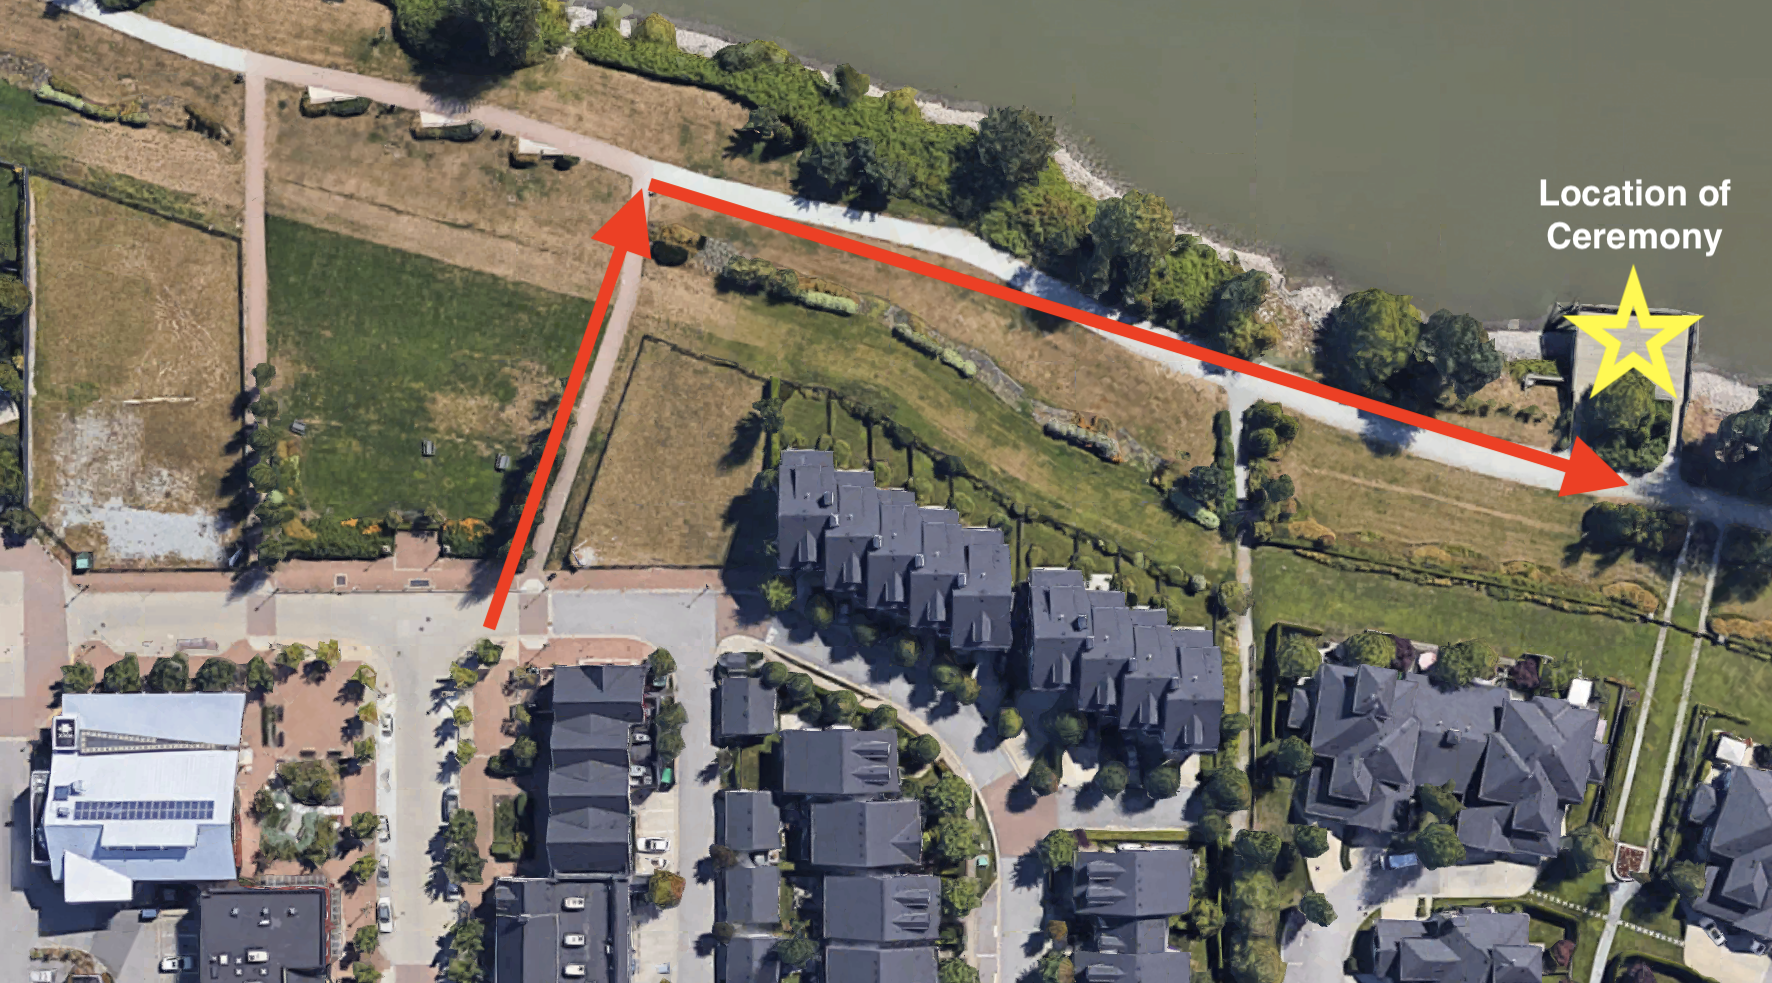
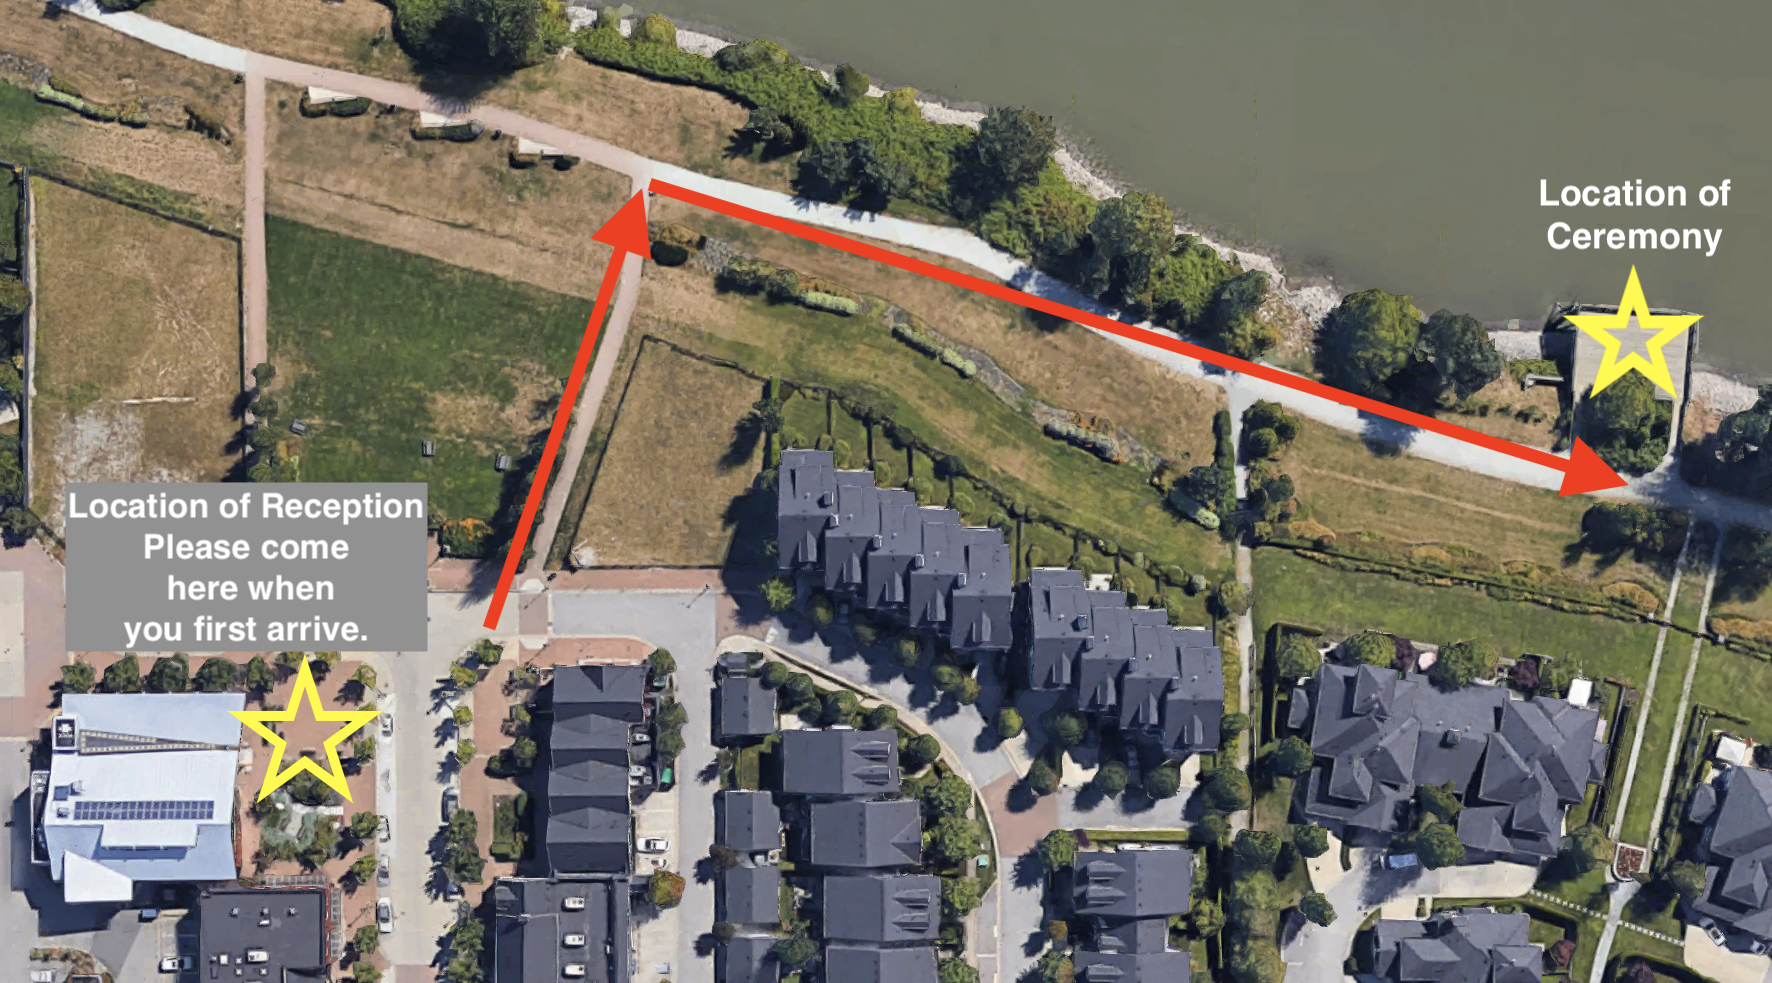
changed order of tabs and updated picture

Changed region(s): [[0.031, 0.4883, 0.2483, 0.824]]

diff --git a/client/src/components/Faq.jsx b/client/src/components/Faq.jsx
@@ -5,6 +5,61 @@ import parkingLocation from '../images/parking.png'
 function Faq() {
   return (
     <div>
+
+      <div className="questionComponent">
+        <p className="question">
+          What time should we arrive?
+        </p>
+        <p className="answer">
+          The ceremony starts at 4pm. Please arrive by 3:45pm and head to the venue to check-in.
+        </p>
+      </div>
+
+
+      <div className="questionComponent">
+        <p className="question">
+        Where is the event?
+        </p>
+        <p className="answer">
+        The reception is held at South Bonson Community Center and the ceremony will be held on the wharf nearby. When you arrive, just head to the venue to check in.
+        </p> <br/>
+        <img src={ceremonyLocation} width="100%" height="100%" alt="ceremony location" />
+      </div>
+
+      <div className="questionComponent">
+        <p className="question">
+          Do you have a registry?
+        </p>
+        <p className="answer">
+          With all that we have, we've been truly blessed. Your presence and good wishes are all that we request! But if you desire to give nonetheless, Monetary gift is the one we suggest.
+        </p>
+      </div>
+
+
+      <div className="questionComponent">
+        <p className="question">
+          Is there parking?
+        </p>
+        <p className="answer">
+          Yes! Parking is free. Please print this <a href="https://docs.google.com/document/d/1FIkEgIjHucjm_Y0VeZA-qo69UYID61Srx4NWYGFuEns/edit?usp=sharing" target="_blank" rel="noopener noreferrer">parking pass</a> and place it on your dashboard when you come.
+          You can park anywhere highlighed in red:
+        </p>
+        <br/>
+        <img src={parkingLocation} width="100%" height="100%" alt="parking location" />
+        <p>
+          We highly recommend that you carpool. Not because it’s environmentally good to do so and will reduce your carbon footprint, parking is rather limited, unless you don’t mind walking a bit.
+        </p>
+      </div>
+
+      <div className="questionComponent">
+        <p className="question">
+          What food will be served?
+        </p>
+        <p className="answer">
+          Western buffet style! We are aware of most of our guests dietary restrictions and we will do our best to accommodate.
+        </p>
+      </div>
+
       <div className="questionComponent">
         <p className="question">
           Can we bring our kids?
@@ -25,62 +80,10 @@ function Faq() {
 
       <div className="questionComponent">
         <p className="question">
-        Where is the event?
-        </p>
-        <p className="answer">
-        The reception is held at South Bonson Community Center and the ceremony will be held on the wharf nearby. When you arrive, just head to the venue to check in.
-        </p> <br/>
-        <img src={ceremonyLocation} width="100%" height="100%" alt="ceremony location" />
-      </div>
-
-      <div className="questionComponent">
-        <p className="question">
-          Is there parking?
-        </p>
-        <p className="answer">
-          Yes! Parking is free. Please print this <a href="https://docs.google.com/document/d/1FIkEgIjHucjm_Y0VeZA-qo69UYID61Srx4NWYGFuEns/edit?usp=sharing" target="_blank" rel="noopener noreferrer">parking pass</a> and place it on your dashboard when you come.
-          You can park anywhere highlighed in red:
-        </p>
-        <br/>
-        <img src={parkingLocation} width="100%" height="100%" alt="parking location" />
-        <p>
-          We highly recommend that you carpool. Not because it’s environmentally good to do so and will reduce your carbon footprint, parking is rather limited, unless you don’t mind walking a bit.
-        </p>
-      </div>
-
-      <div className="questionComponent">
-        <p className="question">
           The venue is in Pitt Meadows?! Omg so far... why?
         </p>
         <p className="answer">
         Why not?! Get away from the crazy traffic and enjoy the calmness of the Fraser River. You’ll be surprised to know there is life outside of Vancouver and Burnaby! I promise you, the suburbs are very civilized.
-        </p>
-      </div>
-
-      <div className="questionComponent">
-        <p className="question">
-          What time should we arrive?
-        </p>
-        <p className="answer">
-          The ceremony starts at 4pm. Please arrive by 3:45pm and head to the venue to check-in.
-        </p>
-      </div>
-
-      <div className="questionComponent">
-        <p className="question">
-          Do you have a registry?
-        </p>
-        <p className="answer">
-          With all that we have, we've been truly blessed. Your presence and good wishes are all that we request! But if you desire to give nonetheless, Monetary gift is the one we suggest.
-        </p>
-      </div>
-
-      <div className="questionComponent">
-        <p className="question">
-          What food will be served?
-        </p>
-        <p className="answer">
-          Western buffet style! We are aware of most of our guests dietary restrictions and we will do our best to accommodate.
         </p>
       </div>
   </div>

diff --git a/client/src/Home.jsx b/client/src/Home.jsx
@@ -6,7 +6,6 @@ import Countdown from "./components/Countdown.jsx";
 import OurStory from "./components/OurStory.jsx";
 import Venue from "./components/Venue.jsx";
 import Schedule from "./components/Schedule.jsx";
-import RSVP from "./components/RSVP.jsx";
 import Faq from "./components/Faq.jsx";
 import Team from "./components/Team.jsx";
 import LoadingPage from "./LoadingPage.jsx";
@@ -38,23 +37,23 @@ class Home extends Component {
       <div className="tabStyle">
         <Tabs>
           <TabList>
-            <Tab> Our Story </Tab>
-            <Tab> The Venue </Tab>
             <Tab> Schedule </Tab>
+            <Tab> The Venue </Tab>
+            <Tab> Our Story </Tab>
             <Tab> VIPs </Tab>
             <Tab> FAQs </Tab>
           </TabList>
 
           <TabPanel>
-            <div className="storyComponent">
-              <OurStory />
-            </div>
+            <Schedule />
           </TabPanel>
           <TabPanel>
             <Venue />
           </TabPanel>
           <TabPanel>
-            <Schedule />
+            <div className="storyComponent">
+              <OurStory />
+            </div>
           </TabPanel>
           <TabPanel>
             <Team />
